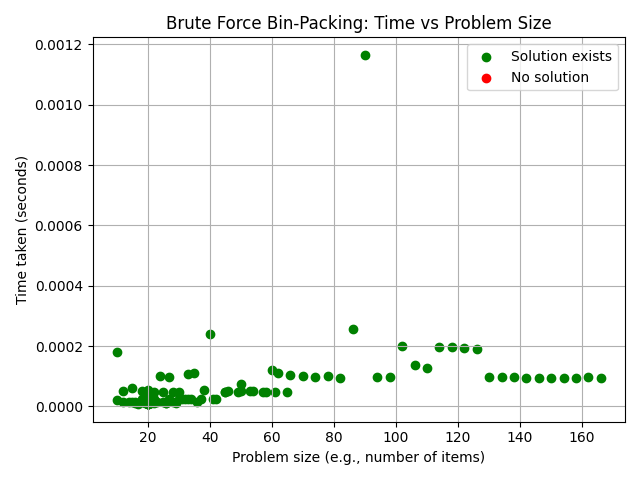
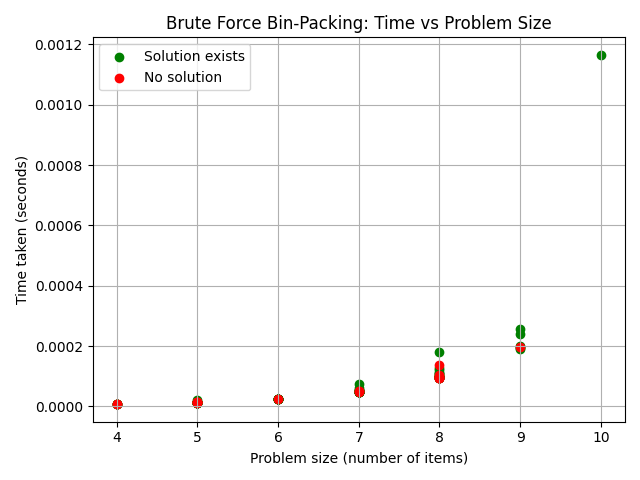
Fixed plot.

diff --git a/src/plots.py b/src/plots.py
@@ -1,15 +1,26 @@
 import csv
 import matplotlib.pyplot as plt
 
+# 1) Build size map from input file
+sizes_by_instance = {}
+with open("../input/binpacking.txt") as f:
+    for idx, line in enumerate(f):
+        parts = line.split()
+        if not parts:
+            continue
+        instance_size = len(parts) - 1  # capacity + items → items count = len-1
+        sizes_by_instance[str(idx)] = instance_size
+
+# 2) Prepare lists for plotting
 sizes_solved = []
 times_solved = []
 
 sizes_unsolved = []
 times_unsolved = []
 
+# 3) Read results CSV
 with open("../results/brute_force_binpacking_sat_solver_results.csv", newline="") as f:
     reader = csv.DictReader(f)
-    # To avoid multi-row duplicates per instance, track first time seen
     seen = set()
 
     for row in reader:
@@ -18,17 +29,14 @@ with open("../results/brute_force_binpacking_sat_solver_results.csv", newline=""
             continue
         seen.add(inst_id)
 
-        bin_capacity = int(row["bin_capacity"])
-        bins_array_str = row["bins_array"]
+        instance_id_str = row["instance_id"]
         time_taken = float(row["time_taken"])
+        bins_array_str = row["bins_array"].strip()
 
-        # interpret bins_array string; "[]" means no solution
-        has_solution = bins_array_str.strip() != "[]"
+        has_solution = bins_array_str != "[0]"
 
-        # define instance size; you can also look it up from input file
-        # simplest: use bin_capacity, or number_of_items from a separate map
-        # for now, let's say size = bin_capacity (or precomputed length)
-        instance_size = bin_capacity  # or replace with real size
+        # 🔹 Here is the important part: get size from the map
+        instance_size = sizes_by_instance[instance_id_str]
 
         if has_solution:
             sizes_solved.append(instance_size)
@@ -37,12 +45,12 @@ with open("../results/brute_force_binpacking_sat_solver_results.csv", newline=""
             sizes_unsolved.append(instance_size)
             times_unsolved.append(time_taken)
 
-# Now plot
+# 4) Plot
 plt.figure()
 plt.scatter(sizes_solved, times_solved, color="green", label="Solution exists")
 plt.scatter(sizes_unsolved, times_unsolved, color="red", label="No solution")
 
-plt.xlabel("Problem size (e.g., number of items)")
+plt.xlabel("Problem size (number of items)")
 plt.ylabel("Time taken (seconds)")
 plt.title("Brute Force Bin-Packing: Time vs Problem Size")
 plt.legend()
